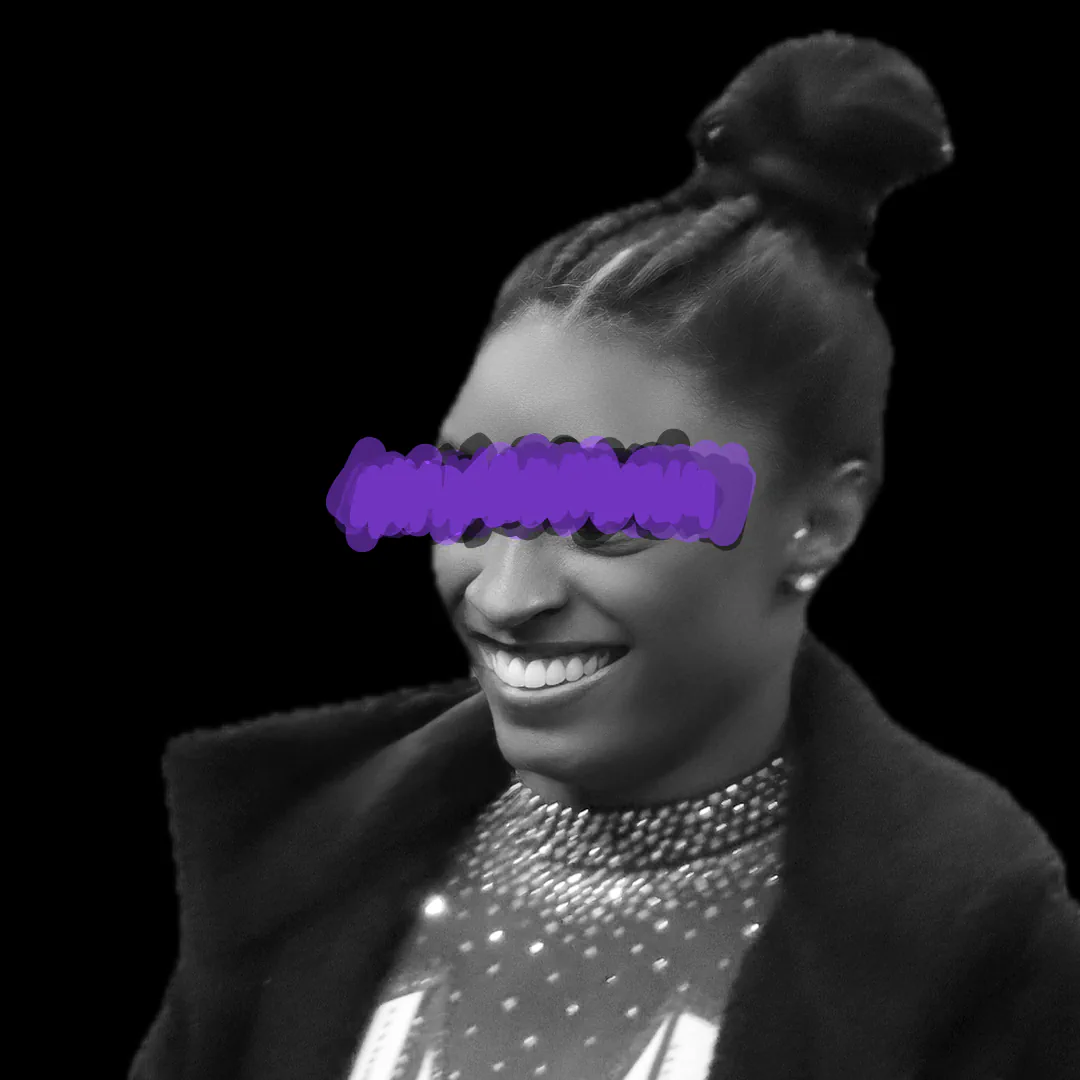
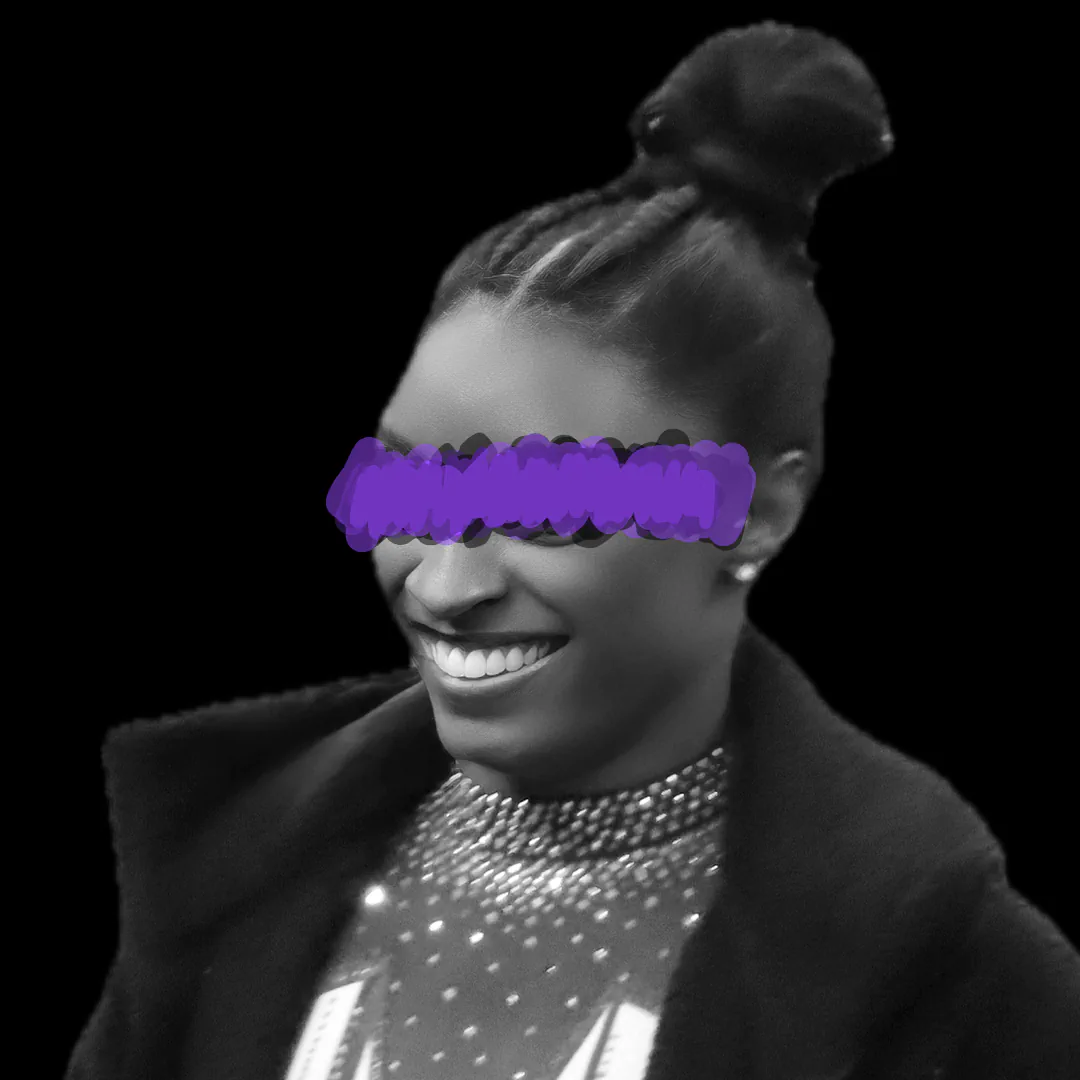
Balance Simone Biles portrait composition

Changed region(s): [[0.0611, 0.0, 1.0, 1.0], [0.7944, 0.1833, 0.825, 0.2139], [0.4583, 0.9167, 0.4889, 0.9472]]

diff --git a/docs/content-analysis/portrait-sources/2026-08-25-real-photo-replacements.md b/docs/content-analysis/portrait-sources/2026-08-25-real-photo-replacements.md
@@ -26,6 +26,7 @@ On 2026-08-26, Alexandr Wang's subject height was increased from 1280px to 1650p
 the same landmark anchors. This makes his face approximately 29% larger without changing the
 source photograph, template, or processing method.
 
-Also on 2026-08-26, Simone Biles's subject height was increased from 1320px to 1550px. Her face
-center remains at x=540, and her measured eye line is placed at y=510 inside the unchanged purple
-band. The authentic source photograph and all other processing constraints remain unchanged.
+Also on 2026-08-26, Simone Biles's subject height was increased from 1320px to 1550px. A second
+composition pass places her facial anchor at x=480 to balance the photographed three-quarter angle,
+while her measured eye line sits at y=500 in the center of the unchanged purple band. The authentic
+source photograph and all other processing constraints remain unchanged.
